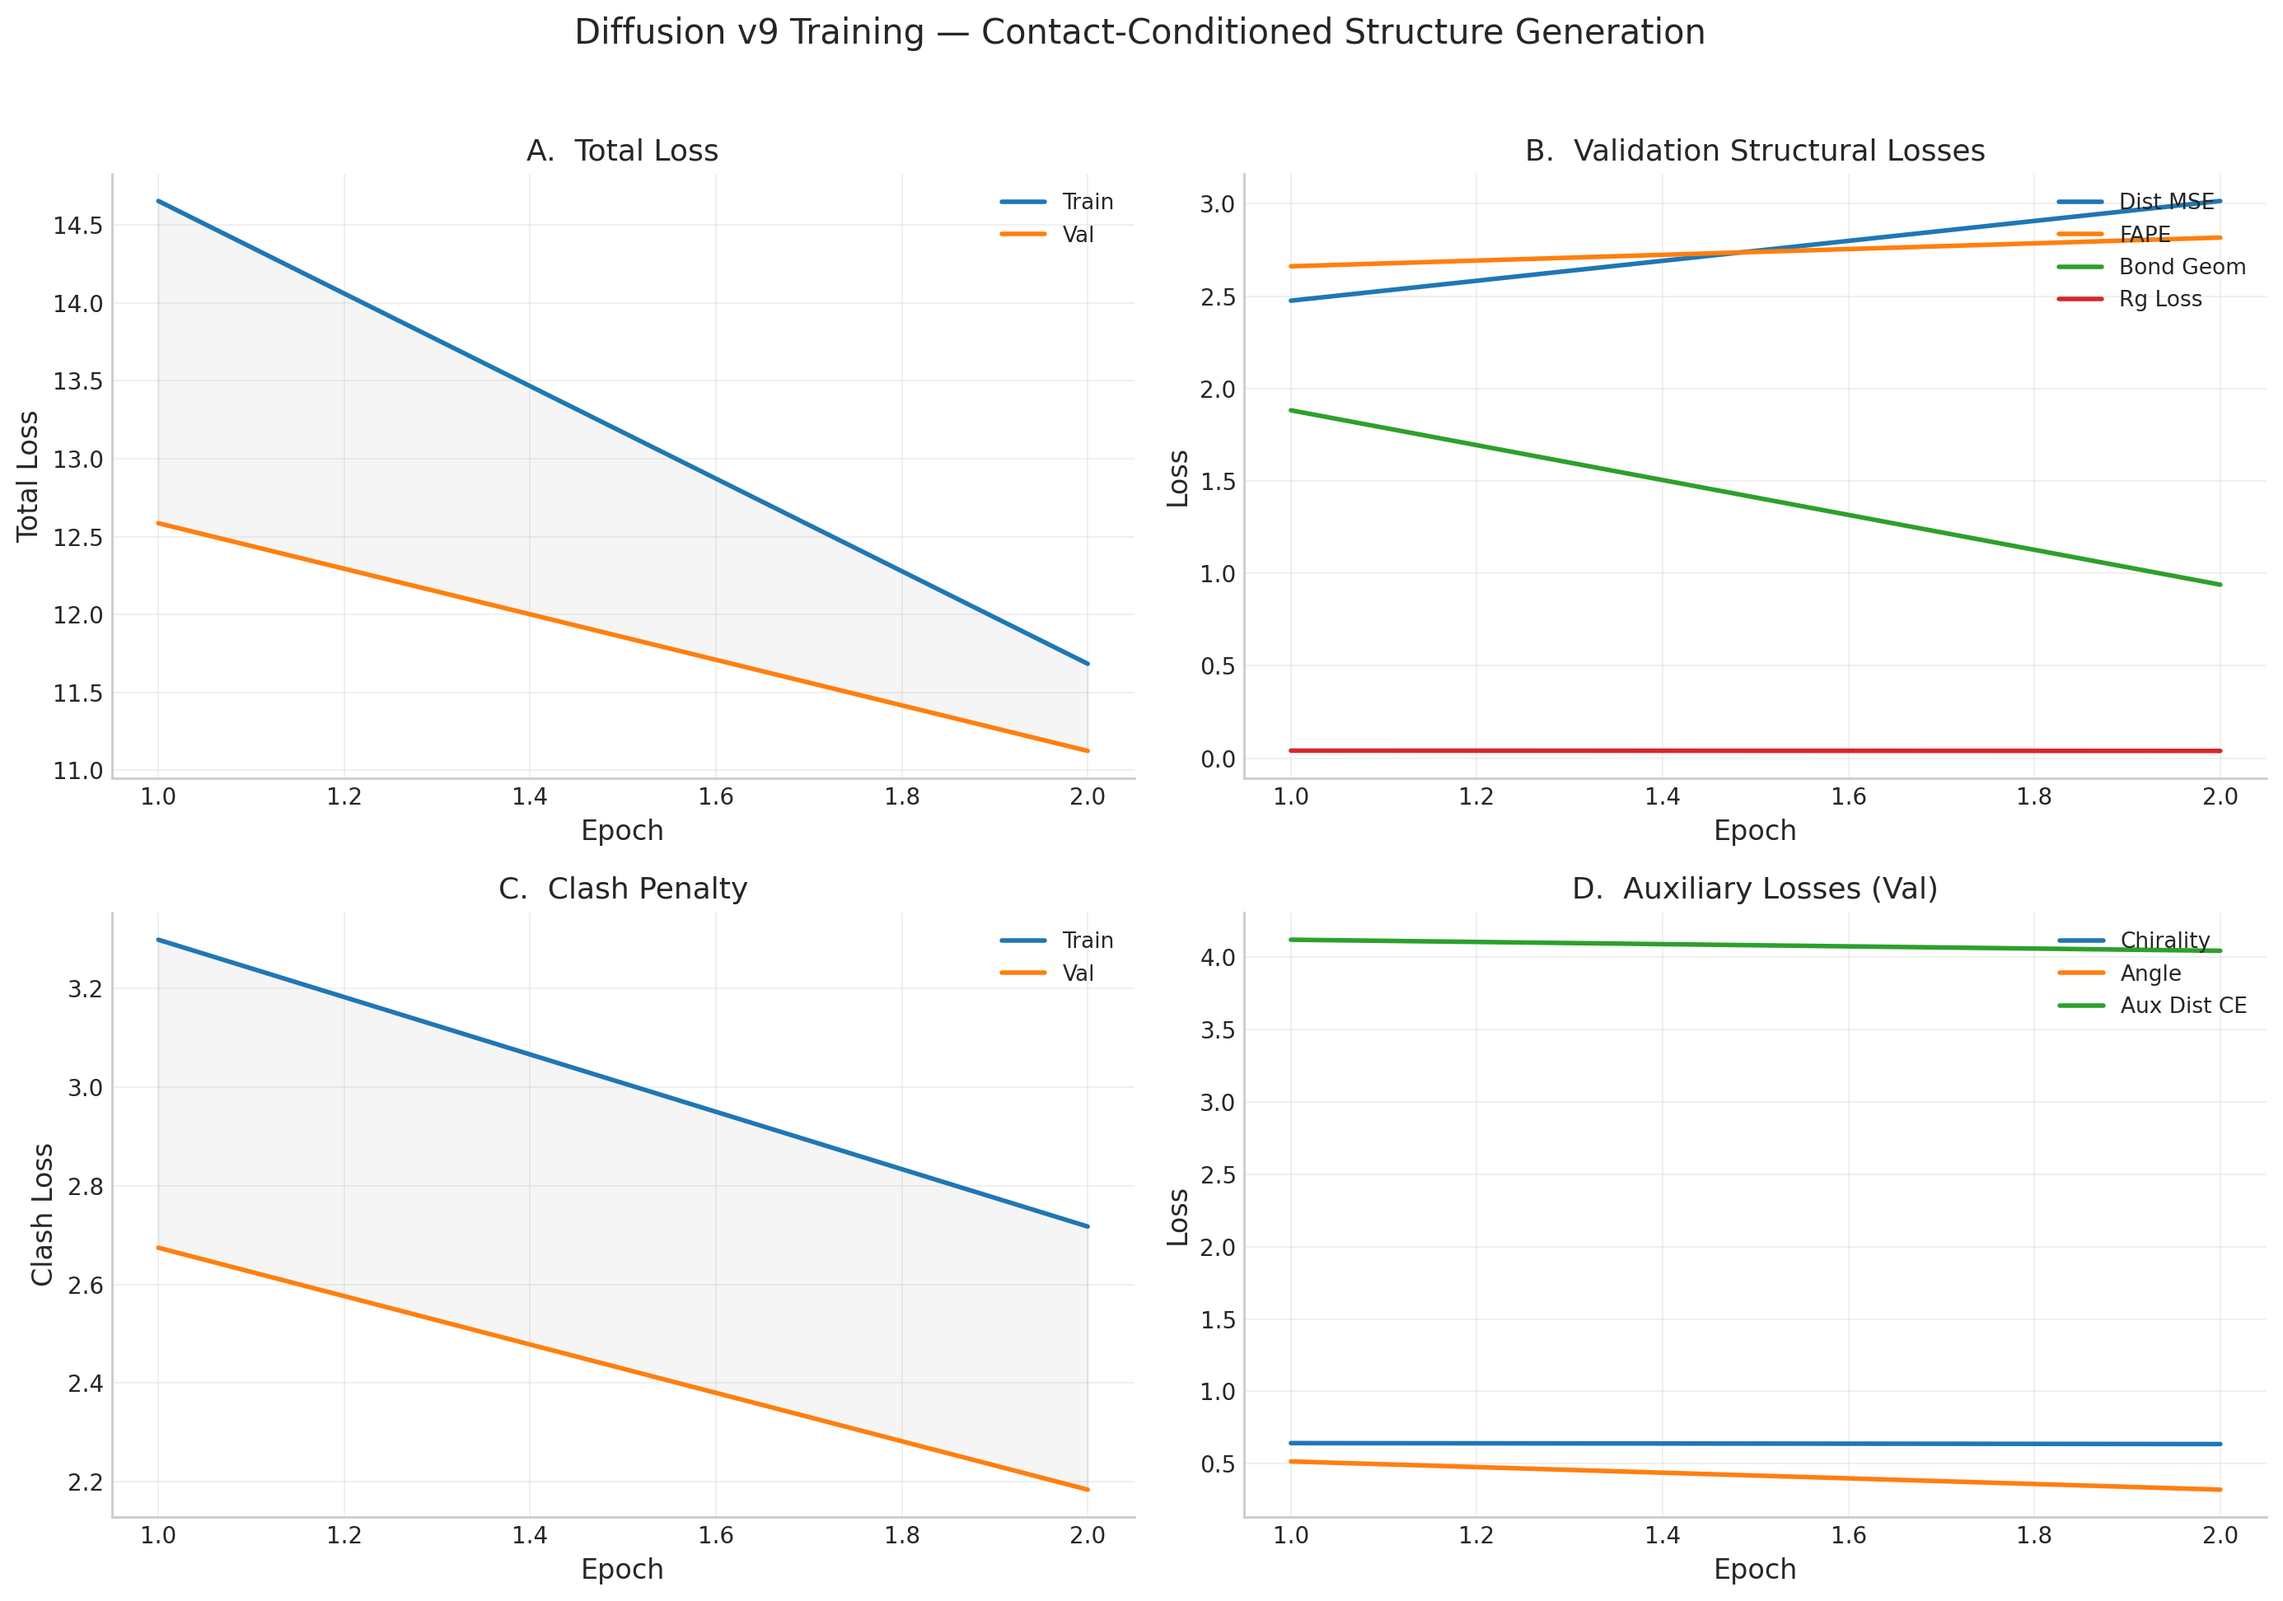
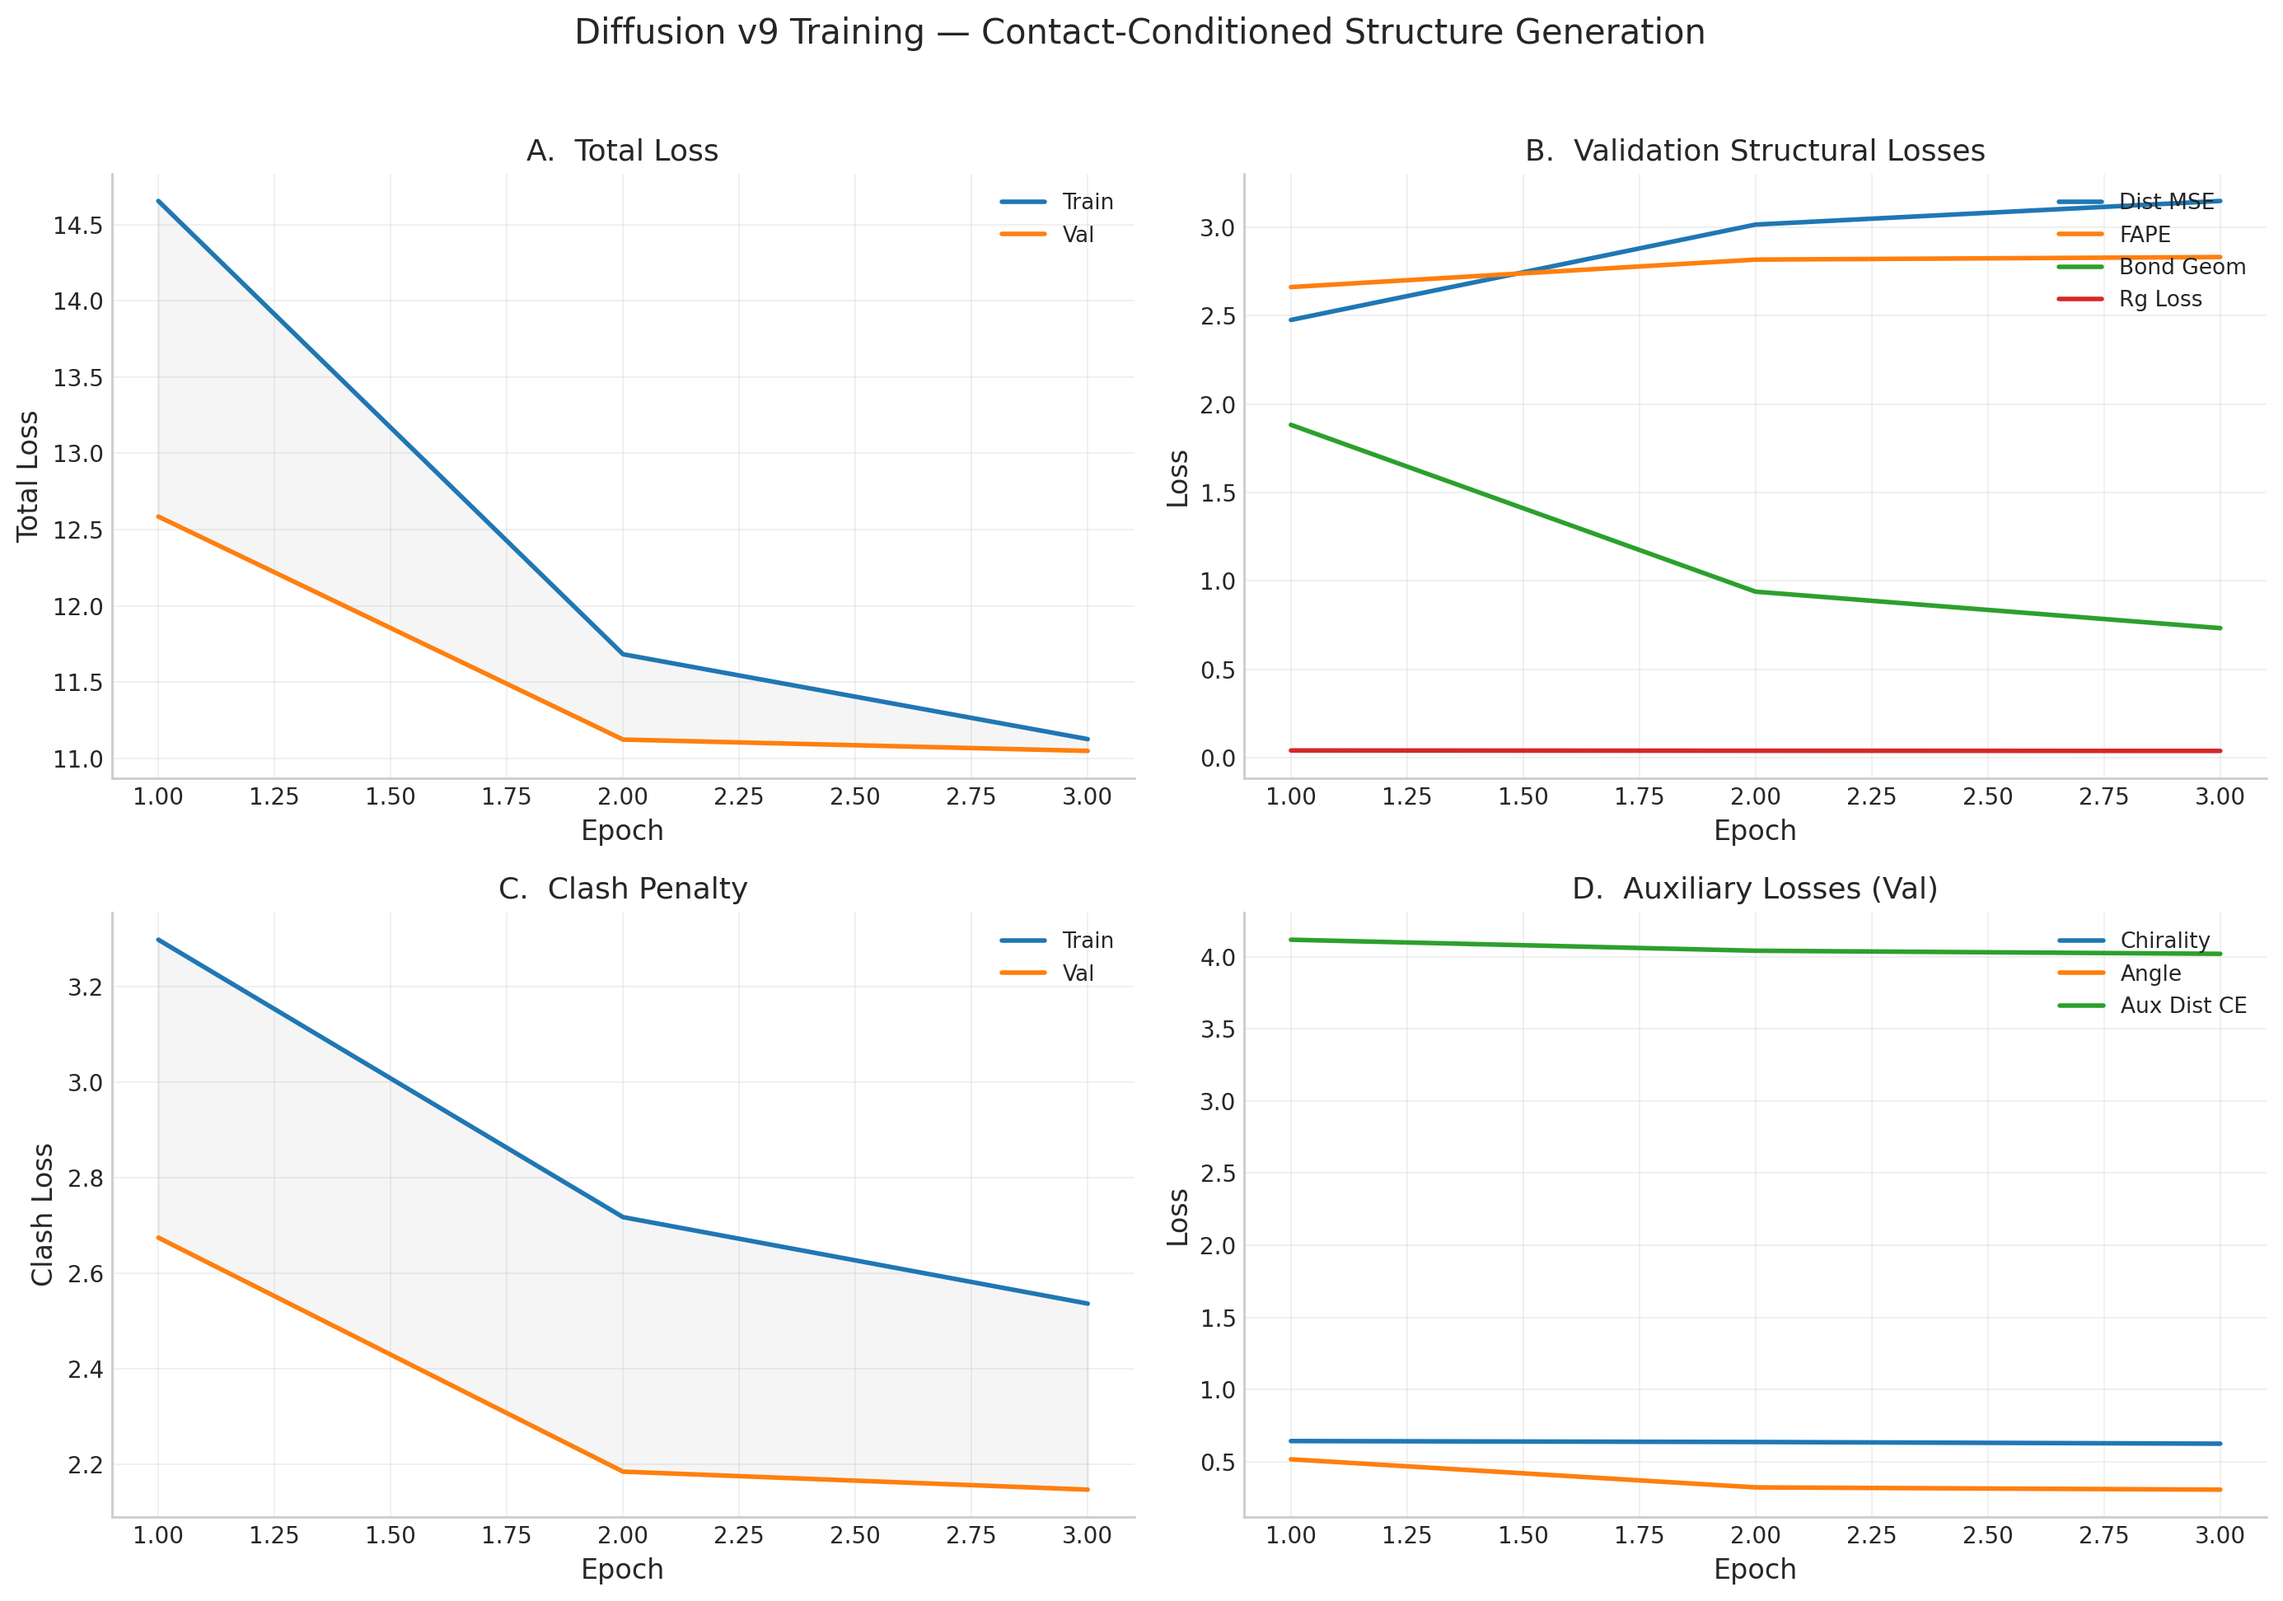
auto-update v9 training progress

diff --git a/index.html b/index.html
@@ -1235,17 +1235,28 @@
                 <td>&mdash;</td>
                 <td><span class="tag tag-best">NEW BEST</span></td>
               </tr>
+              <tr>
+                <td>3</td>
+                <td>11.050</td>
+                <td>3.149</td>
+                <td>2.832</td>
+                <td>0.038</td>
+                <td>0.733</td>
+                <td>&mdash;</td>
+                <td>&mdash;</td>
+                <td><span class="tag tag-best">NEW BEST</span></td>
+              </tr>
               </tbody>
           </table>
         </div>
 
-        <h4 class="training-progress-heading">Loss Curves (through Epoch 2)</h4>
+        <h4 class="training-progress-heading">Loss Curves (through Epoch 3)</h4>
         <div style="text-align: center; margin: 16px 0;">
           <img src="data/training/v9_loss_curves.png" alt="V9 diffusion training loss curves" style="max-width: 100%; border-radius: 6px; border: 1px solid var(--border);">
         </div>
 
         <div class="training-pending-note" id="v9-run2-status">
-          Run 2: 2 epochs completed. Best val loss: 11.124 at epoch 2. Patience: 0/15. Running on single A40 GPU (savio3) with auto-resume.
+          Run 2: 3 epochs completed. Best val loss: 11.050 at epoch 3. Patience: 0/15. Running on single A40 GPU (savio3) with auto-resume.
         </div>
       </div>
 
